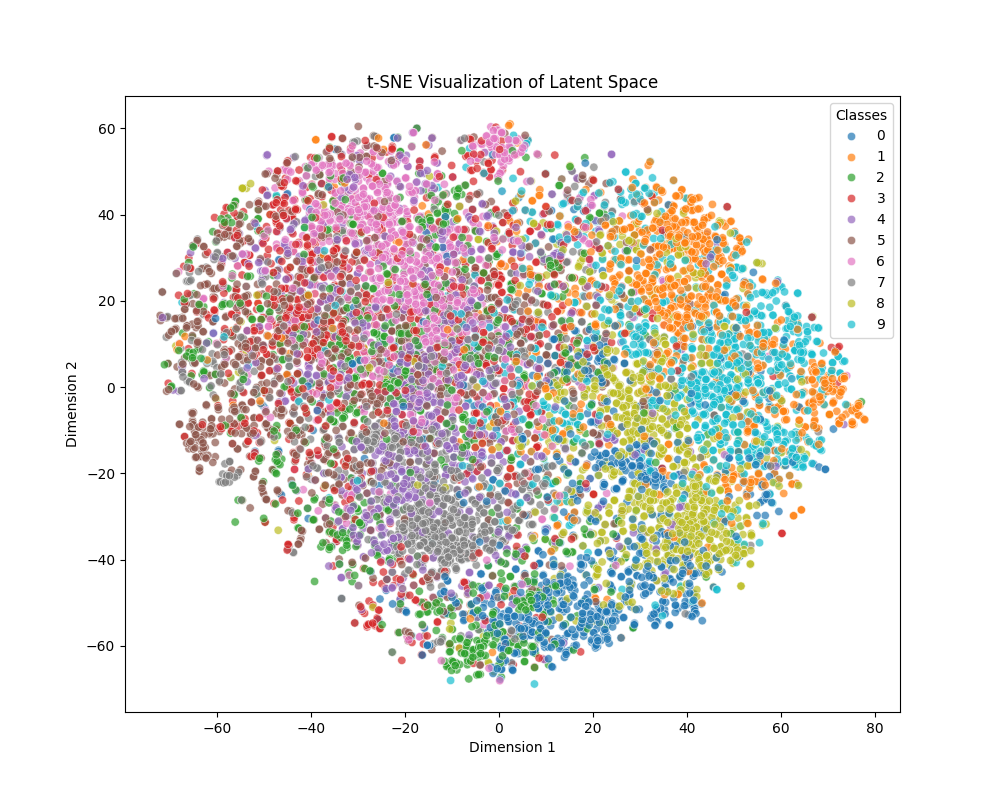
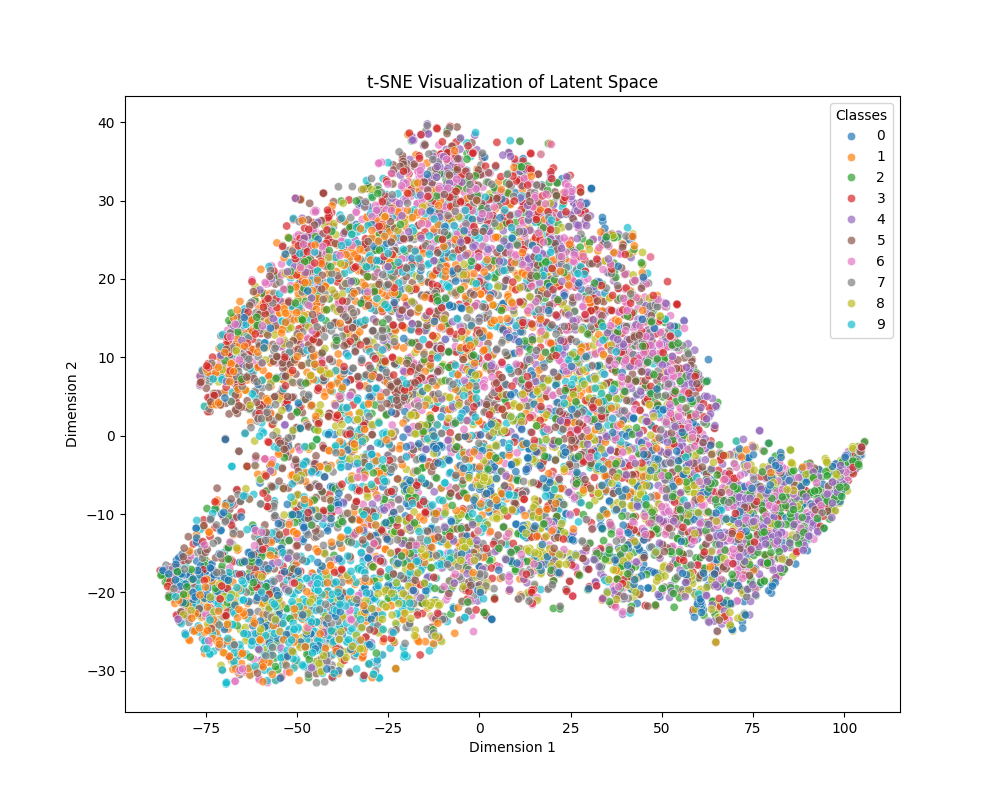
[CODE] - After try with resnet50, we observe worse results in general, although it still separates classes in the latent space

diff --git a/latent_space_vis.py b/latent_space_vis.py
@@ -9,7 +9,7 @@ from models.resnet_linear_probing import ResNetLP
 import numpy as np
 import seaborn as sns
 
-def visualize_latent_space(model_checkpoint, base_model, out_dim, data_loader, device):
+def visualize_latent_space(model_checkpoint, base_model, out_dim, data_loader, device, fig_name=None):
     # Load the trained model
     model = ResNetLP(base_model=base_model, out_dim=out_dim, checkpoint_path=model_checkpoint, freeze_backbone=False)
     model.to(device)
@@ -40,12 +40,17 @@ def visualize_latent_space(model_checkpoint, base_model, out_dim, data_loader, d
     plt.legend(title='Classes')
     plt.show()
     
-    # save the plot
-    plt.savefig('latent_space_tsne.png') 
+    # Make directory for saving the plot if it doesn't exist
+    import os
+    os.makedirs('plots', exist_ok=True)
+    
+    plt.savefig(f"plots/{fig_name}.png")  # Save the figure with a specific name
+    
     
 if __name__ == "__main__":
     # Define parameters
-    model_checkpoint_path = f'runs/checkpoint_4LP/checkpoint_try_1.pth.tar'
+    model_checkpoint_path = f'runs/checkpoint_4LP/initial_checkpoint_resnet18_01.pth.tar'  # Path to the trained model checkpoint
+    figure_name = "initial_space_initial_resnet18_01"  # Name for the saved figure
     base_model = 'resnet18'
     out_dim = 128
     batch_size = 256
@@ -62,4 +67,4 @@ if __name__ == "__main__":
     test_loader = torch.utils.data.DataLoader(test_dataset, batch_size=batch_size, shuffle=False, num_workers=4)
 
     # Visualize latent space
-    visualize_latent_space(model_checkpoint_path, base_model, out_dim, test_loader, device)
+    visualize_latent_space(model_checkpoint_path, base_model, out_dim, test_loader, device, fig_name=figure_name)

diff --git a/run_lp.py b/run_lp.py
@@ -17,7 +17,7 @@ parser.add_argument('-data', metavar='DIR', default='./datasets',
                     help='path to dataset')
 parser.add_argument('-dataset-name', default='cifar10',
                     help='dataset name', choices=['stl10', 'cifar10'])
-parser.add_argument('-a', '--arch', metavar='ARCH', default='resnet18',
+parser.add_argument('-a', '--arch', metavar='ARCH', default='resnet50',
                     choices=model_names,
                     help='model architecture: ' +
                          ' | '.join(model_names) +
@@ -103,9 +103,10 @@ def main():
 
     # model checkpoint without training  
     # checkpoint_path = f'runs/checkpoint_4LP/initial_checkpoint_feb04_1834.pth.tar'
+    checkpoint_path = f'runs/checkpoint_4LP/initial_checkpoint_resnet50_01.pth.tar'  
     
     # model checkpoint with training
-    checkpoint_path = f'runs/checkpoint_4LP/final_checkpoint_feb04_1834.pth.tar'
+    #checkpoint_path = f'runs/checkpoint_4LP/final_checkpoint_resnet50_01.pth.tar'
     
     model = ResNetLP(base_model=args.arch, out_dim=args.out_dim, checkpoint_path=checkpoint_path, freeze_backbone=True)
     

diff --git a/run.py b/run.py
@@ -15,7 +15,7 @@ parser.add_argument('-data', metavar='DIR', default='./datasets',
                     help='path to dataset')
 parser.add_argument('-dataset-name', default='cifar10',
                     help='dataset name', choices=['stl10', 'cifar10'])
-parser.add_argument('-a', '--arch', metavar='ARCH', default='resnet18',
+parser.add_argument('-a', '--arch', metavar='ARCH', default='resnet50',
                     choices=model_names,
                     help='model architecture: ' +
                          ' | '.join(model_names) +
